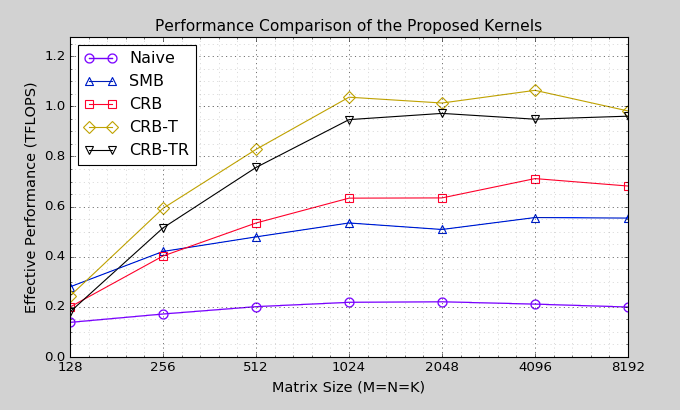
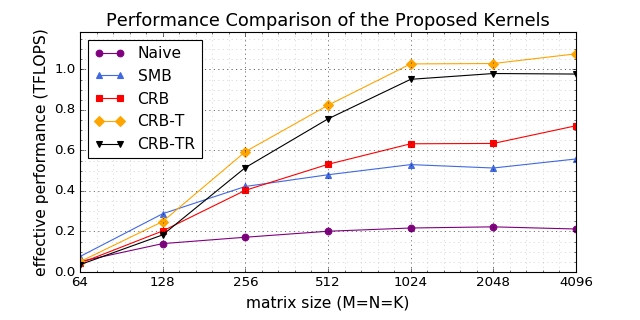
minor plot changes

diff --git a/run.py b/run.py
@@ -3,7 +3,7 @@ import sys, os, math
 import matplotlib.pyplot as plt
 
 #-Configuration ----------------------------------------------------------------
-sizes = [ 2**n for n in range(7, 14) ]
+sizes = [ 2**n for n in range(6, 13) ]
 modes = ['Naive', 'SMB', 'CRB', 'CRB-T', 'CRB-TR']
 
 #-Script Body ------------------------------------------------------------------
@@ -50,30 +50,32 @@ if __name__ == "__main__":
     fig,axes = plt.subplots()
 
     # size and name
-    fig.set_size_inches(9, 5, forward=True)
+    fig.set_size_inches(8, 4, forward=True)
+    fig.subplots_adjust(bottom=0.15)
     fig.canvas.set_window_title('GEMM - benchmark')
+
 
     # axes
     axes.set_xlim([0, len(sizes)-1])
-    axes.set_ylim([0, 1.2 * max([max(l) for l in results])])
+    axes.set_ylim([0, 1.1 * max([max(l) for l in results])])
 
     axes.xaxis.set_ticks(range(0, len(sizes)))
     axes.xaxis.set_ticklabels(sizes)
 
     # plotting
     def plot_entry(n):
-        colors = ['r', 'g', 'b', 'm', 'k']
         markers = ['o', '^', 's', 'D', 'v']
+        colors = ['purple', 'royalblue', 'r', 'orange', 'k']
         return plt.plot(results[n], color=colors[n],
                         linestyle='-', marker=markers[n],
                         markeredgewidth=1, markeredgecolor=colors[n],
-                        markerfacecolor='none', markersize=8)[0]
+                        markerfacecolor=colors[n], markersize=6)[0]
 
     print '# Plotting the results ...'
     plots = [ plot_entry(n) for n in range(0, len(modes)) ]
 
     # legend
-    plt.legend(plots, modes, loc='upper left')
+    plt.legend(plots, modes, loc='upper left', fontsize = '14')
 
     # background grid
     plt.grid(True, which="major", linestyle=':')
@@ -81,9 +83,9 @@ if __name__ == "__main__":
     plt.minorticks_on()
 
     # labels
-    plt.xlabel('Matrix Size (M=N=K)', fontsize=13)
-    plt.ylabel('Effective Performance (TFLOPS)', fontsize=13)
-    plt.title('Performance Comparison of the Proposed Kernels', size=14)
+    plt.xlabel('matrix size (M=N=K)', fontsize=14)
+    plt.ylabel('effective performance (TFLOPS)', fontsize=14)
+    plt.title('Performance Comparison of the Proposed Kernels', size=16)
 
     # and that's it!
     plt.show()
